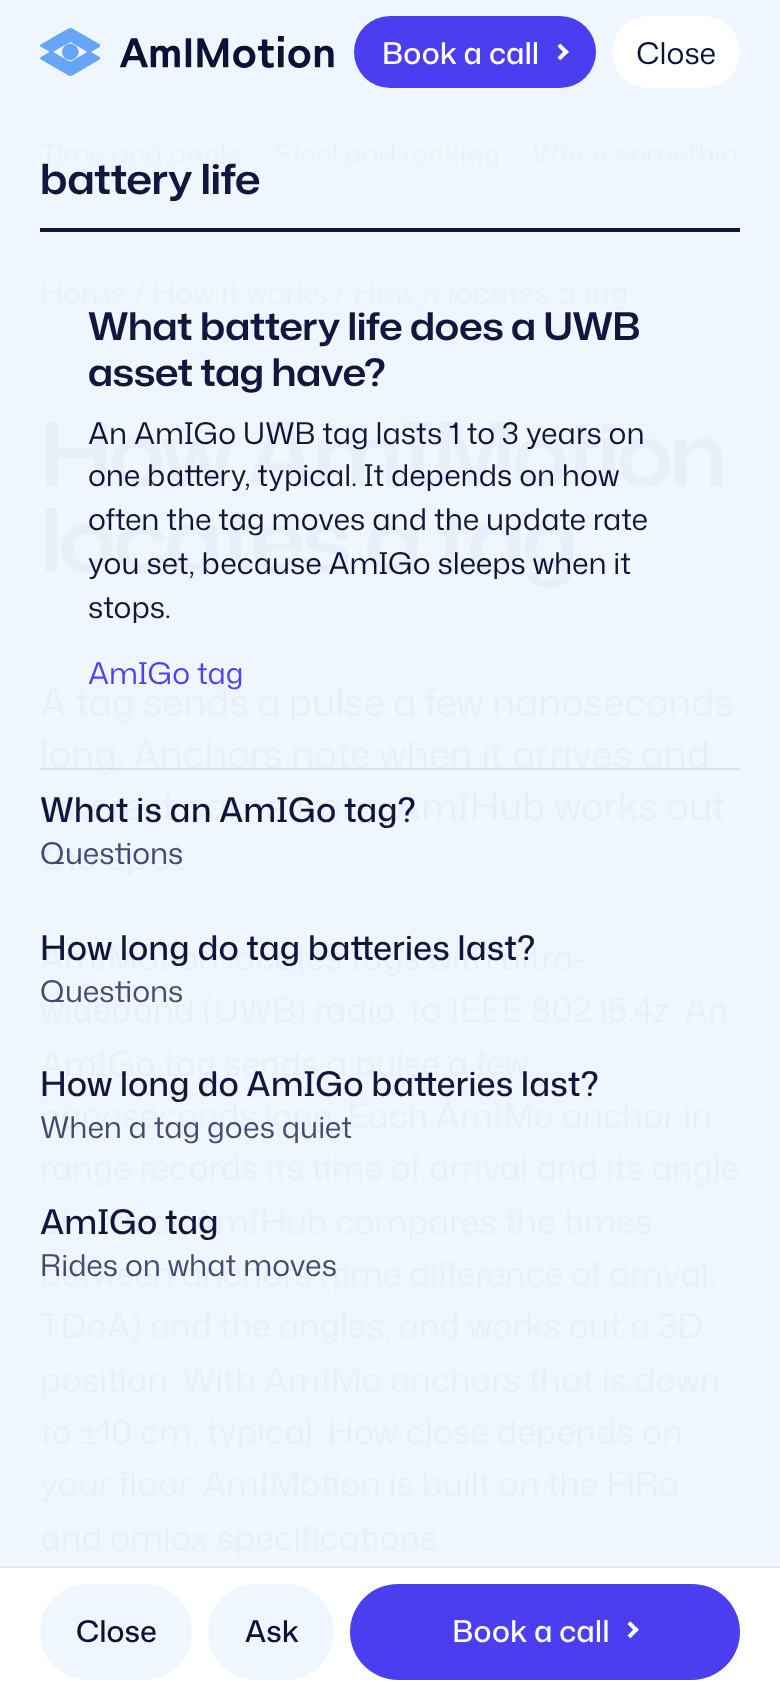
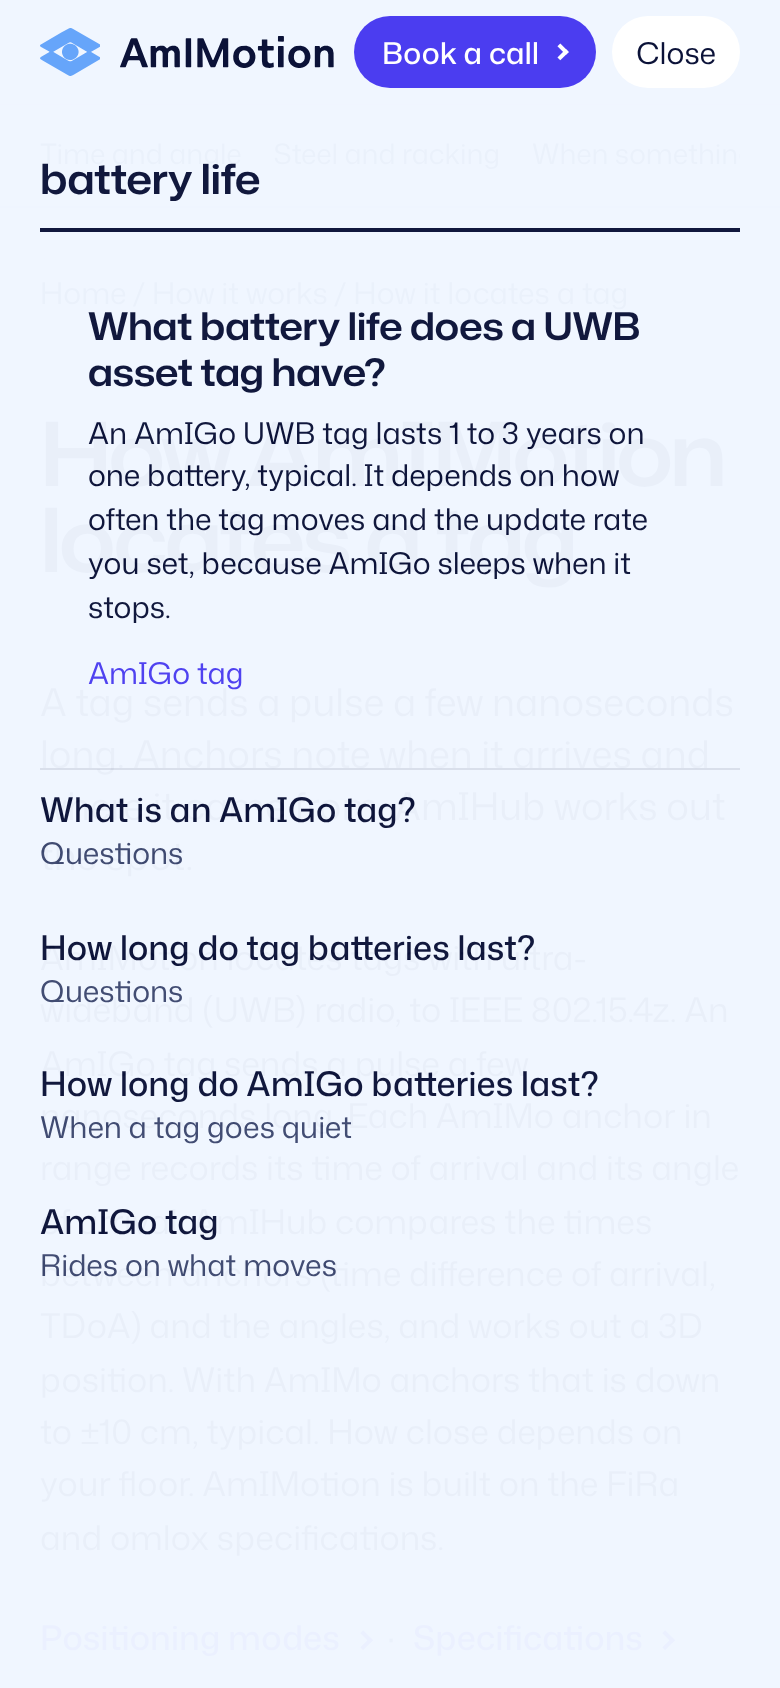
Nav phone sheet: dock hides while the sheet is open (Close and Book a call once); fold hub link reads Overview
Claude-Session: https://claude.ai/code/session_01YEydMLSbb4ajY8VpLSnUbm

Changed region(s): [[0.4308, 0.9242, 0.9538, 1.0], [0.0923, 0.955, 0.2154, 0.9858], [0.3077, 0.955, 0.3692, 0.9858]]

diff --git a/site/src/css/core.css b/site/src/css/core.css
@@ -148,12 +148,12 @@
   .act > .cta{padding:0 14px}
   .phone{display:block}
   .phone > summary{padding-inline:12px}
-  .m-close,[open] > summary > .m-open,.sheet-on .dock .m-open{display:none}
-  [open] > summary > .m-close,.sheet-on .dock .m-close{display:inline}
+  .m-close,[open] > summary > .m-open{display:none}
+  [open] > summary > .m-close{display:inline}
   html:has(.phone[open]){overflow:hidden}
   html:has(.phone[open]) body{padding-top:var(--bar)}
   html:has(.phone[open]) .top{position:fixed;top:0;left:0;right:0}
-  .sheet{position:fixed;left:0;right:0;top:var(--bar);bottom:0;overflow-y:auto;overscroll-behavior:contain;background:var(--ground);padding:var(--s-3) var(--margin) calc(var(--s-8) + 64px);animation:nav-fade 180ms var(--ease-ds) both}
+  .sheet{position:fixed;left:0;right:0;top:var(--bar);bottom:0;overflow-y:auto;overscroll-behavior:contain;background:var(--ground);padding:var(--s-3) var(--margin) var(--s-8);animation:nav-fade 180ms var(--ease-ds) both}
   .sheet-ask{margin-bottom:var(--s-4)}
   .sheet-ask input{font-size:clamp(1.25rem,1rem + 1.2vw,1.75rem);height:52px}
   .asking .sheet-secs{display:none}
@@ -182,7 +182,8 @@
 /* the phone dock (M13): Menu, Ask and Book a call under the thumb, slid in once the first screen is behind you (JS on) */
 @media (max-width:1023px){
   .js .dock{display:flex;gap:var(--s-2);position:fixed;z-index:40;left:0;right:0;bottom:0;height:calc(64px + env(safe-area-inset-bottom));padding:8px var(--margin) calc(8px + env(safe-area-inset-bottom));align-items:center;background:var(--surface);border-top:1px solid var(--hairline);transform:translateY(105%);transition:transform 200ms var(--ease-ds);visibility:hidden}
-  .js.dock-on .dock,.js.sheet-on .dock{transform:none;visibility:visible}
+  .js.dock-on .dock{transform:none;visibility:visible}
+  .js.sheet-on .dock{transform:translateY(105%);visibility:hidden}
   .dock-b{flex:none;height:48px;padding:0 18px;border:0;border-radius:var(--radius-pill);background:var(--ground);color:var(--ink);font:500 var(--size-small)/1 var(--font-text);cursor:pointer}
   .dock-b:active,.dock .cta:active{transform:scale(var(--press-scale))}
   .dock .cta{flex:1;min-width:0}

diff --git a/team/rounds/14-nav/tools/shoot.js b/team/rounds/14-nav/tools/shoot.js
@@ -51,7 +51,7 @@ const shot = (pg, n, o = {}) => pg.screenshot({ path: path.join(out, n + '.png')
   await pg.tap('.phone > summary'); await pg.waitForTimeout(200);
   await pg.evaluate(() => scrollTo(0, innerHeight * 1.5)); await pg.waitForTimeout(500); await shot(pg, 'p390-dock');
   await pg.tap('[data-ask-open]'); await pg.waitForTimeout(400); await pg.keyboard.type('battery life', { delay: 10 }); await pg.waitForTimeout(500); await shot(pg, 'p390-ask');
-  await pg.tap('[data-menu]'); await pg.waitForTimeout(300);
+  await pg.tap('.phone > summary'); await pg.waitForTimeout(300);
   await pg.evaluate(() => scrollTo(0, 0)); await pg.waitForTimeout(300);
   await pg.evaluate(() => document.querySelector('.phone > summary').click()); await pg.evaluate(() => document.getAnimations().filter(a => a.timeline === document.timeline).forEach(a => a.pause()));
   for (const [f, t] of [0, 45, 90, 135, 180].entries()) { await pg.evaluate(t => document.getAnimations().filter(a => a.timeline === document.timeline).forEach(a => a.currentTime = t), t); await shot(pg, `motion-p-open-${f}-${t}ms`); }

diff --git a/site/build.py b/site/build.py
@@ -286,7 +286,7 @@ def header_html(url="/"):
         sgroups = "".join(f'<p class="grp-name">{html.escape(n)}</p><ul class="sheet-list{" pics" if all(u in PIC for _, u, _ in its) else ""}">'
                           + "".join(row(*it, "sheet", all(u in PIC for _, u, _ in its)) for it in its) + "</ul>" for n, its in gs)
         secs.append(f'<details class="fold"{" open" if s is here else ""}><summary>{s["label"]}</summary><div class="fold-body">'
-                    f'<a class="fold-hub" href="{s["url"]}"{cur(s["url"])} >{s["label"]}</a>{sgroups}</div></details>')
+                    f'<a class="fold-hub" href="{s["url"]}"{cur(s["url"])} aria-label="{s["label"]} overview">Overview</a>{sgroups}</div></details>')
     secs.append(f'<details class="fold"><summary>Start from your job</summary><div class="fold-body"><ul class="jobs-list">{roles_html("sheet")}</ul></div></details>')
     return ('<a class="skip-link" href="#main">Skip to content</a>\n<header class="top ds">\n'
             f'<a class="logo" href="/" aria-label="AmIMotion home" data-nav-id="header.home">{part("logo.html")}</a>\n'

diff --git a/team/rounds/14-nav/notes.md b/team/rounds/14-nav/notes.md
@@ -127,12 +127,12 @@ with picture rows and unfolding sections, and a thumb dock. A and B were folded 
 - **Bar, 52 px:** logo · Book a call · Menu.
 - **Sheet:** full height, fixed. The bar stays on top (it switches to fixed with matching body padding, so nothing
   shifts), the page behind is `inert` and does not scroll. Order: an Ask field, the four sections as folds in display
-  type (+ turns to ×), with your current section already unfolded, each holding its hub link, the group names and
+  type (+ turns to ×), with your current section already unfolded, each opening on an "Overview" link to its hub (accessible name "<section> overview"; the one place a hub link does not carry the section label, because the fold heading already says it), the group names and
   rows, a fifth fold "Start from your job", and the closing line. Groups whose every row has a still (The system, By
   problem, By industry, Your first steps) show 72 px picture rows. Pictures in closed folds are never fetched. While
   you type in Ask, the folds give way to the answers.
 - **Dock:** once the first screen (or the homepage hero runway) is behind you, a 64 px bottom bar slides in: Menu ·
-  Ask · Book a call, all in thumb reach. Menu turns to Close while the sheet is open. Ask opens the sheet with the field
+  Ask · Book a call, all in thumb reach. The dock hides while the sheet is open, so Close and Book a call appear once (top bar). Ask opens the sheet with the field
   focused. Without JS the dock does not appear and the top Menu works on its own.
 - Phone motion: the sheet fades up 6 px in 180 ms, and a fold's body in 160 ms (`shots/motion-p-open-*`).
 
